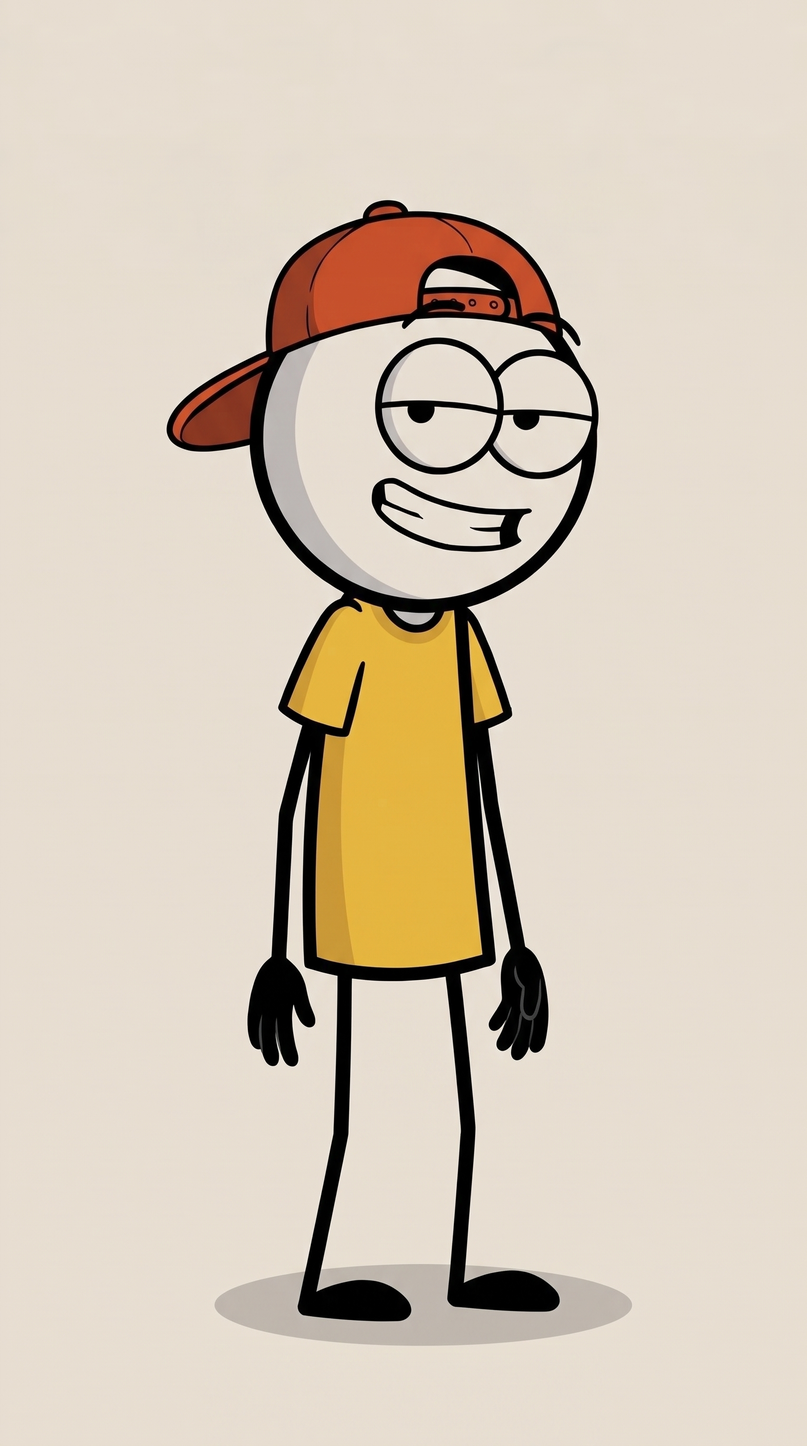
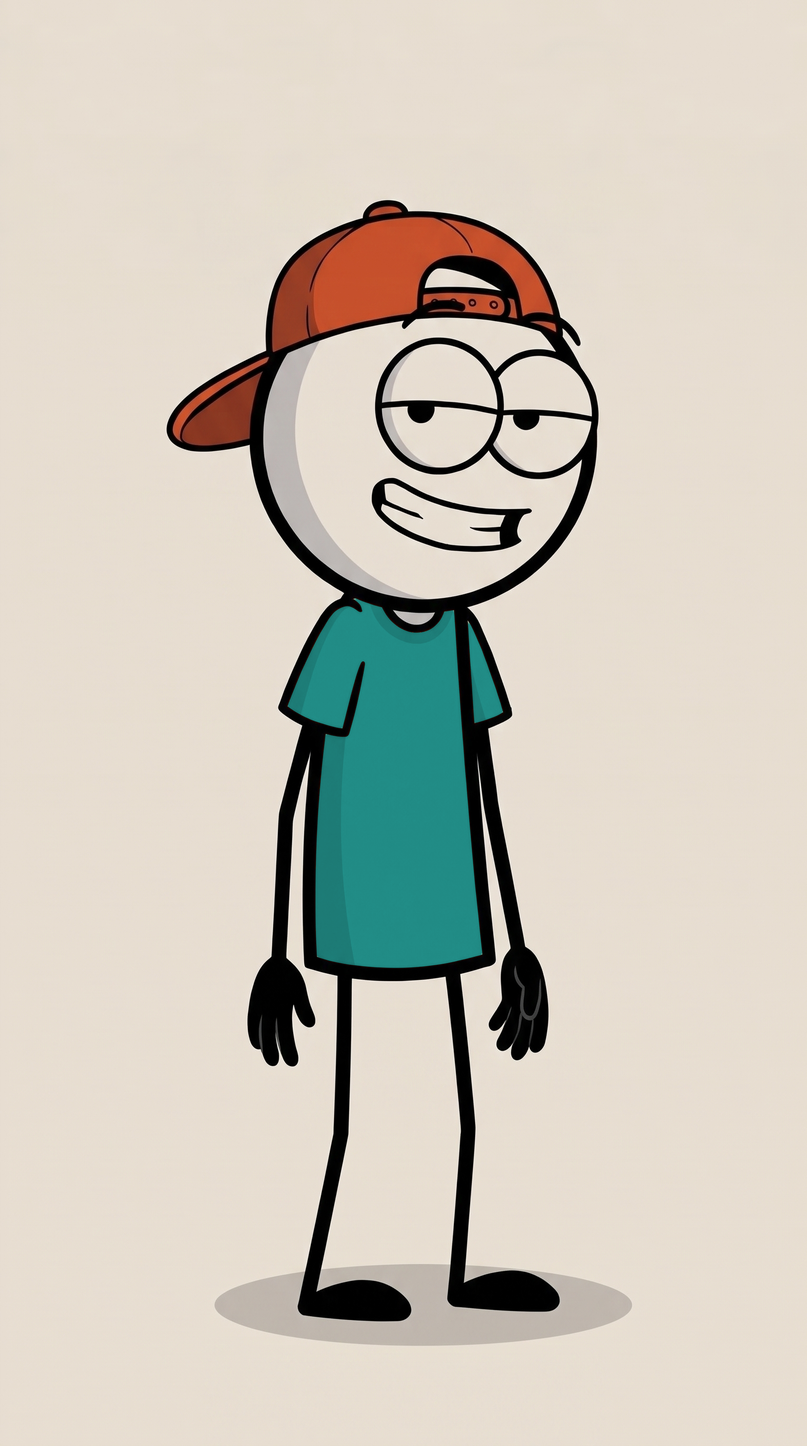
Akpos and Segs: rename Aboki to Segs, teal and gold shirts
Shirts recoloured in the pixels (Qodeup teal #218D87 for Akpos, gold #F2B21B
for Segs) so outlines and shading stay as approved; sheet label redrawn.

Changed region(s): [[0.3438, 0.4062, 0.625, 0.6875]]

diff --git a/LESSONS.md b/LESSONS.md
@@ -29,7 +29,7 @@ read both before a new series.
 9. A search for `ground:` also matched every `background:`. Anchor a search for a config key to
    the start of the line.
 
-## 2026-10-31, locking Aboki and Akpos (2D stick-figure duo)
+## 2026-10-31, locking Akpos and Segs (2D stick-figure duo; Segs was first named Aboki)
 
 1. The direct Gemini key can run dry (402, prepaid credits depleted). The same model is on kie.ai
    as `nano-banana-pro` (`image_input` takes a list of urls, `resolution` 2K, 18 credits a
@@ -44,3 +44,7 @@ read both before a new series.
    instead of paying for a re-roll.
 4. `gen_voice.py` voices a short with one voice. A two-person skit needs a voice per line before
    it can use the cast's `voice` blocks in each character.json.
+5. A colour change on a flat-fill character is a pixel job, not a re-generation: mask the shirt by
+   hue, scale the new colour by each pixel's brightness, and every outline and shade survives with
+   no drift and no cost. Keep the old reference picture for style only and name the new colours
+   in every prompt, or the model pulls the old ones back.
